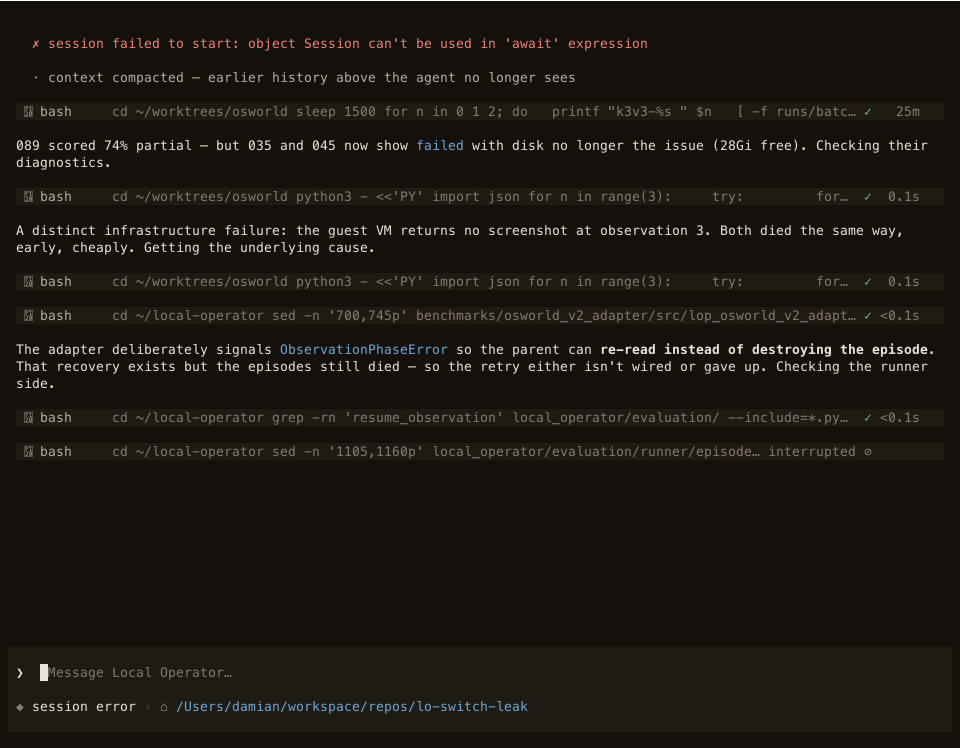
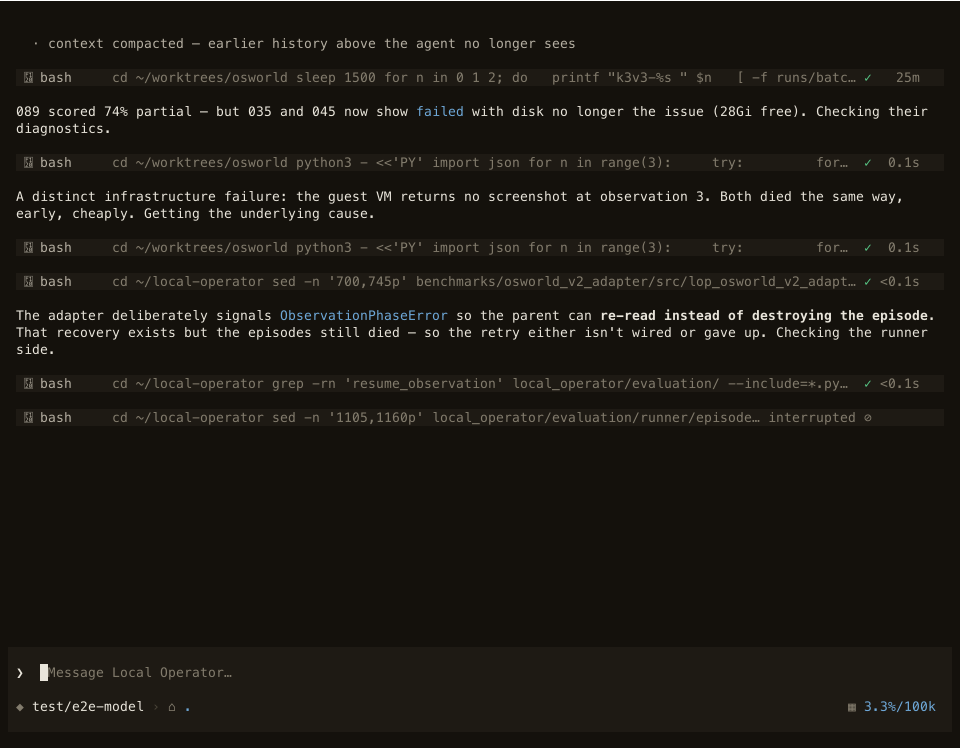
docs(evidence): caption the audit pair's window, and name the capture script
Design round 3's D1-D3 and QA's Q5: the frames were re-captured without the
capture harness's "session failed to start" row and "session error" band; the
`screen.size == virtual_size` reading is named for what it describes (the screen
block, not a scrolled transcript window) with the transcripts' own scroll_y /
viewport / content readings beside it; the pair's members are stated to sit at
different offsets and why; the capture script is named by path
(scripts/audit_notice_census.py) rather than as "the capture script" here; and the
retention claim now names only the verified surfaces (the journal and the model's
context).

diff --git a/review-round3-audit/README.md b/review-round3-audit/README.md
@@ -32,11 +32,35 @@ mirrors `replay_entries(..., mode="audit")` — the function this census replays
 `frames/audit-before-round2-head.png` and `frames/audit-after-fixed.png` are the
 same window of the audit-phase rows (the notices and their neighbours, chosen by
 TEXT so both checkouts frame the same rows) presented through the assembled
-application — real `OperatorApp`, `local_operator.tcss`, `screen.size ==
-screen.virtual_size` on both, `css_path = ['local_operator.tcss']` in each
-`.geometry.json`. Before: four `[model switch]` notices sit behind the user
-gutter with the compaction marker and the conversation's own rows around them.
-After: the same window with them gone.
+application — real `OperatorApp`, `local_operator.tcss`,
+`css_path = ['local_operator.tcss']` in each `.geometry.json` (the frames come
+from `scripts/audit_notice_census.py <session-dir> <out.svg>` in the product
+tree; nothing in this directory captures anything). Before: four `[model switch]`
+notices sit behind the user gutter with the compaction marker and the
+conversation's own rows around them. After: the same window with them gone.
+
+**The two members are scrolled windows, and they do not sit at the same offset.**
+The `.geometry.json` `screen.size == screen.virtual_size` reading (118x42, no
+screen scrollbars) describes the SCREEN block — that no window chrome scrolls —
+not the transcript. The transcript's own readings, printed by the census run and
+kept in `census/audit-pair-window-readings.log`, are:
+
+| | round-2 head | this head |
+|---|---|---|
+| transcript `scroll_y` | 8 | 0 |
+| viewport / content height | 35 / 43 | 35 / 35 |
+| mounted blocks | 14 | 10 |
+
+The before frame opens eight lines into the window (the notices are taller than
+the viewport, so it shows their tails), and the after frame sits at the top:
+with the removed rows gone the content is exactly the viewport height, which is
+why the same slice reads as a shorter window. The rows a reader can compare are
+the tool and assistant lines below the notices, present in both.
+
+These frames were re-captured to remove two artefacts of the first attempt: a
+`x session failed to start: …` row and a `session error` band that belonged to the
+capture harness (a sync session factory where the app awaits one), not to the
+operator's history. The band now reads the mock session the capture boots.
 
 **What these frames are not.** They are not a capture of the attached viewer's
 own scroll into its audit pages: driving that headlessly to the audit cursor did
@@ -49,9 +73,10 @@ not reproduced.
 ## What a pasted notice gets, stated plainly
 
 A person who pastes a notice verbatim loses their DISPLAY row. The row is still in
-the journal, still in the model's context, still in the export — only every human
-surface drops it, because the audit phase serves stored rows whose sole surviving
-evidence is the text. `is_harness_chrome` has always traded the same way for the
+the journal, and still in the model's context — those two are the verified
+retention surfaces and the only ones this claims — while every human surface drops
+it, because the audit phase serves stored rows whose sole surviving evidence is
+the text. `is_harness_chrome` has always traded the same way for the
 three continuation prompts, which a person can equally paste; the limit is now
 pinned by tests on all three surfaces (`test_a_pasted_notice_is_hidden_on_display_
 but_kept_in_the_transcript`, the D12 phone case, the panel case).
